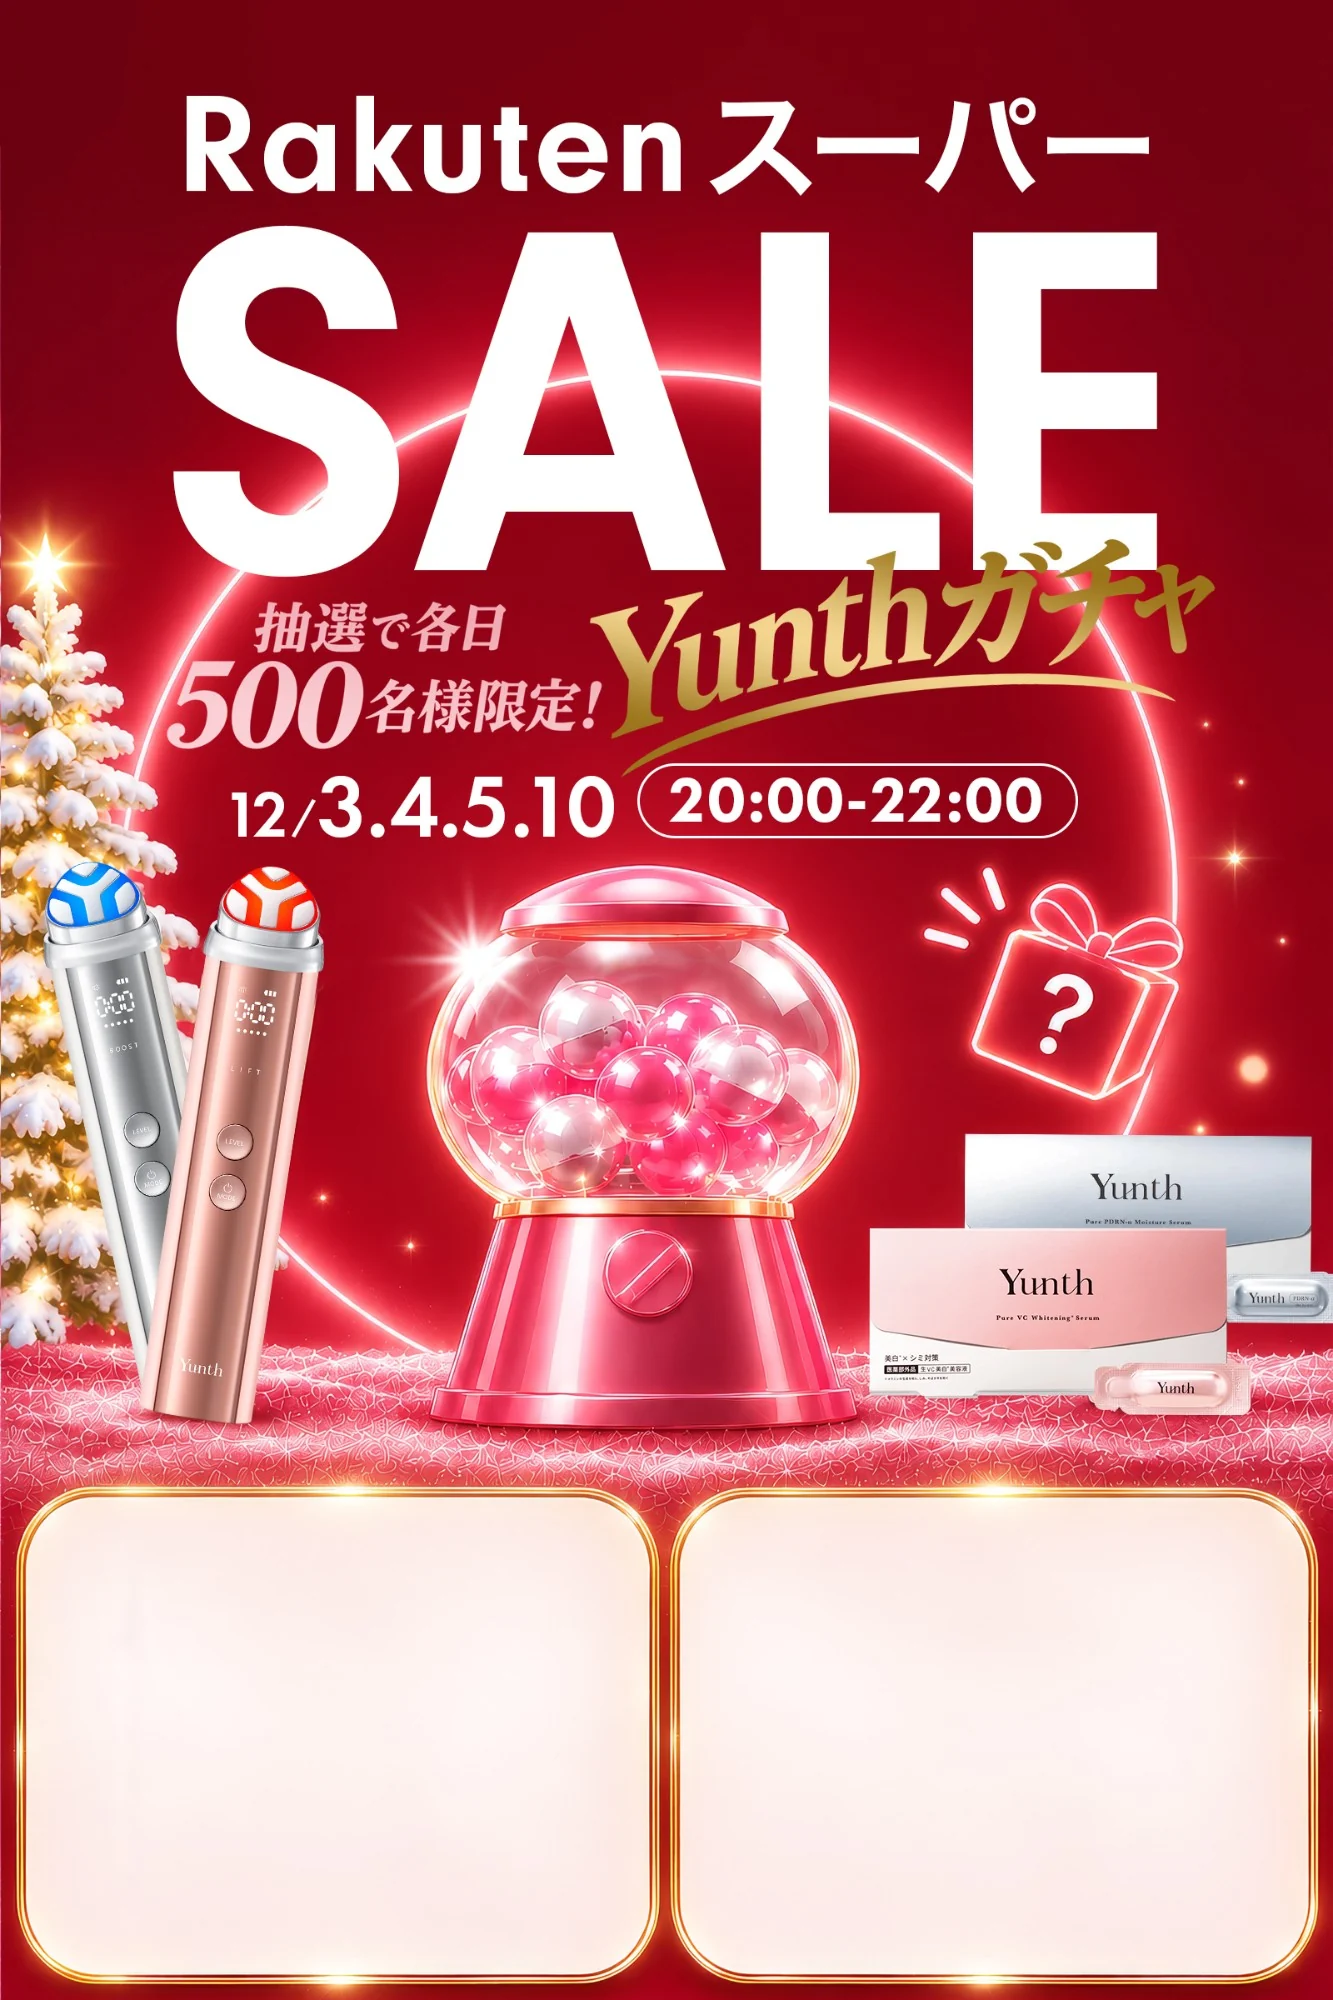
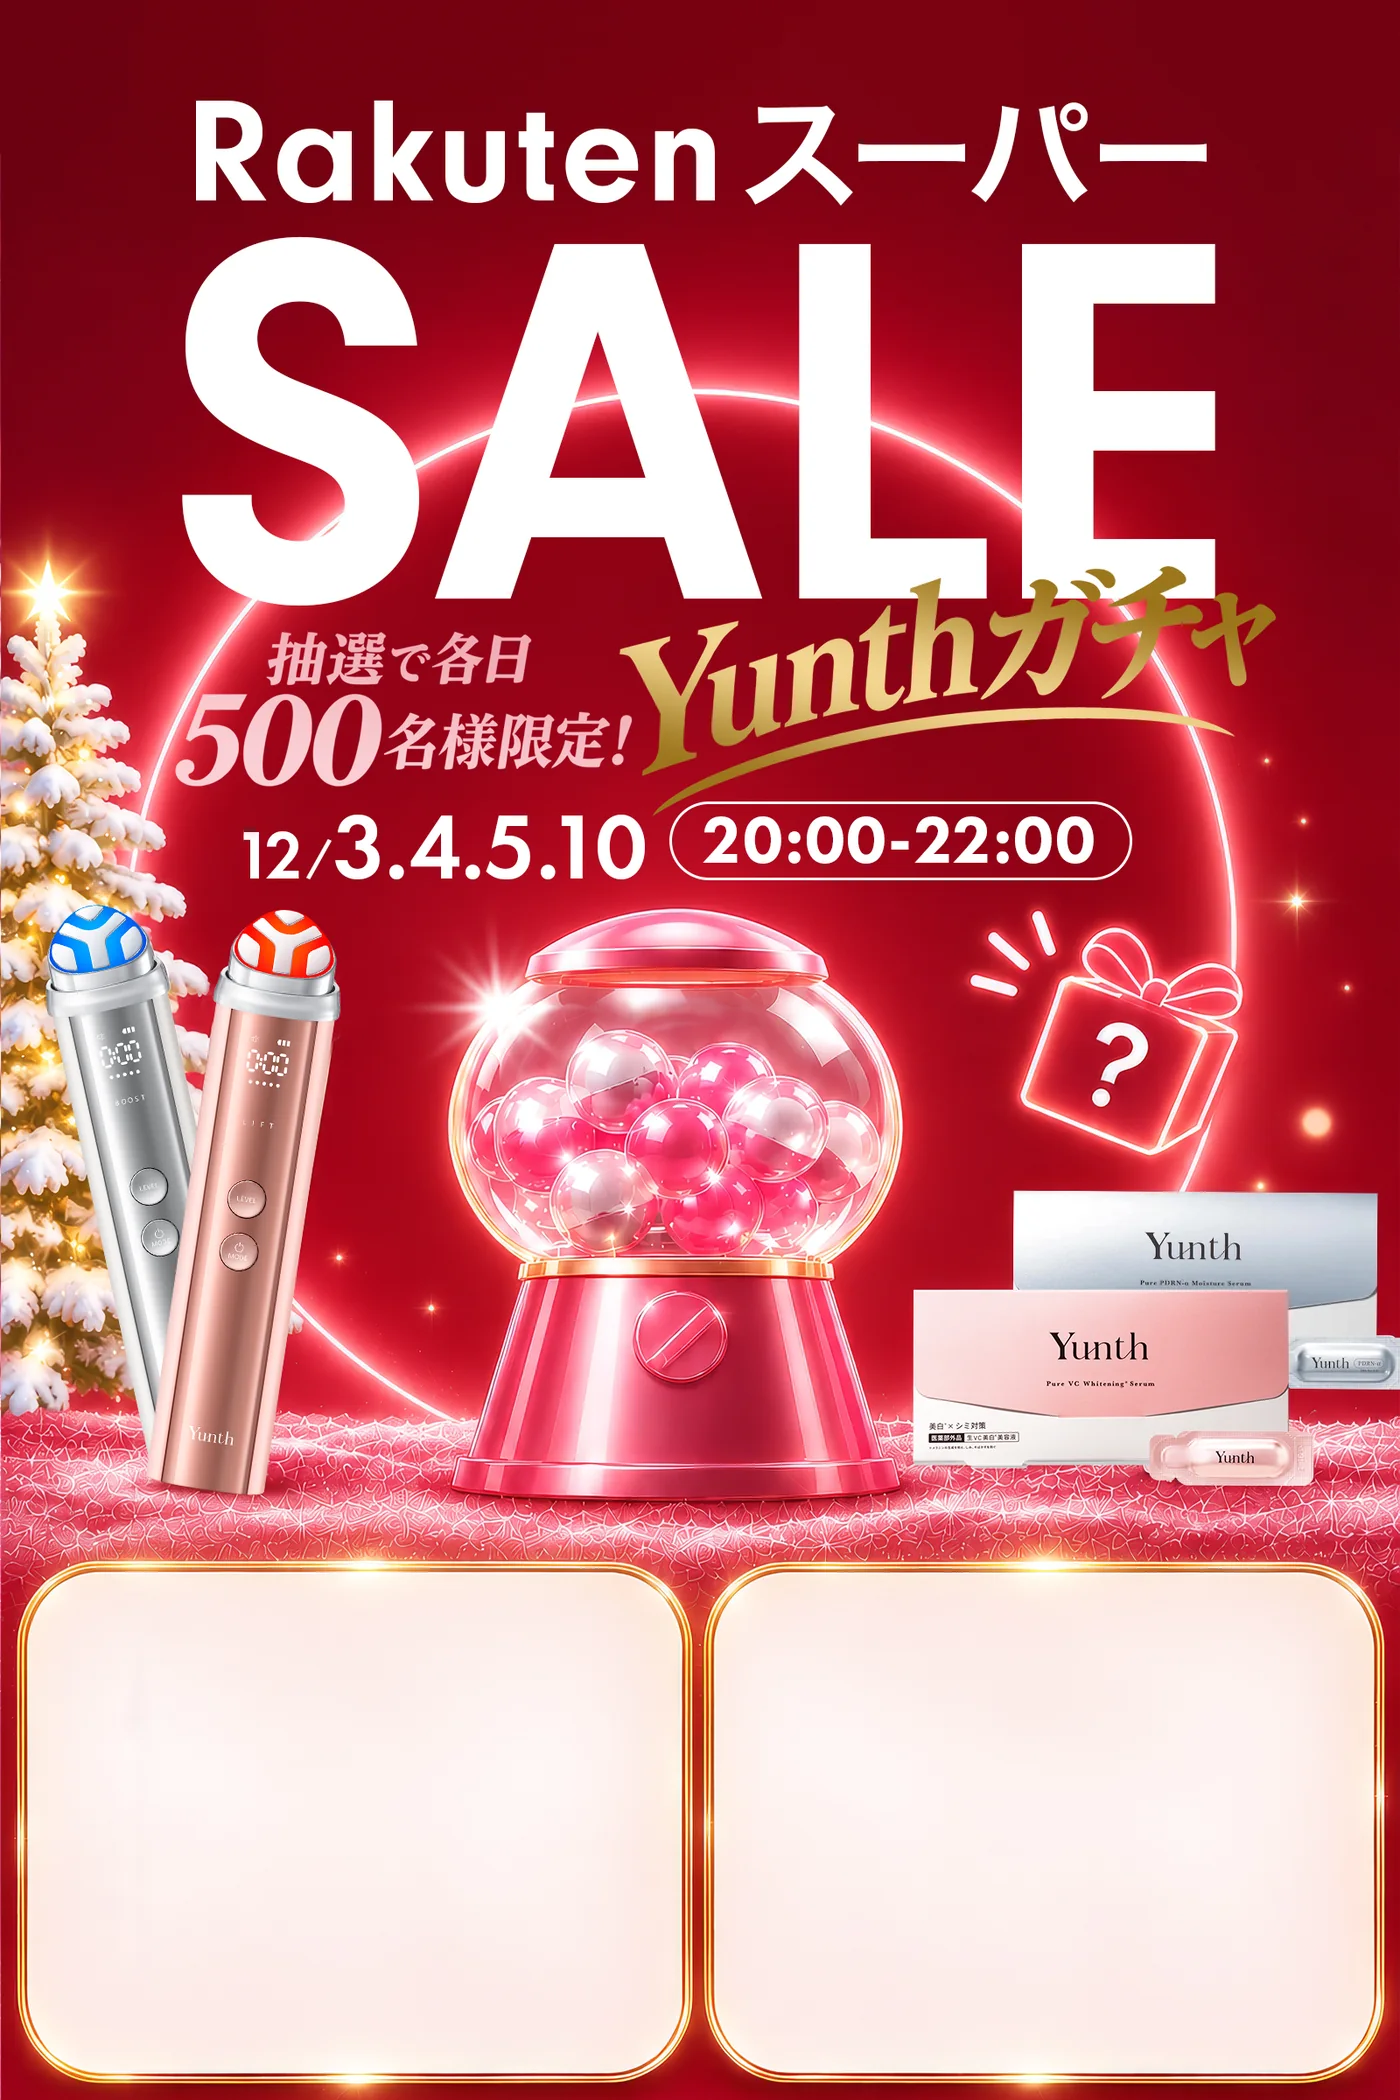
feat: 粉雪の演出を追加、FV画像を更新

diff --git a/index.html b/index.html
@@ -11,9 +11,10 @@
 <link rel="preconnect" href="https://fonts.gstatic.com" crossorigin>
 <link rel="stylesheet" href="https://fonts.googleapis.com/css2?family=Jost:wght@300;400;500;600;700&family=Noto+Sans+JP:wght@400;500;700&display=swap">
 <link rel="stylesheet" href="style.css?v=11">
-<link rel="stylesheet" href="theme.css?v=3">
+<link rel="stylesheet" href="theme.css?v=4">
 </head>
 <body>
+<canvas class="snow snow--bg" data-snow="bg" aria-hidden="true"></canvas>
 
 <svg width="0" height="0" style="position:absolute" aria-hidden="true"><defs><linearGradient id="oG"><stop offset="0" stop-color="#b98f45"/><stop offset=".5" stop-color="#f7e5b6"/><stop offset="1" stop-color="#b98f45"/></linearGradient><radialGradient id="oP" cx=".35" cy=".28" r=".85"><stop offset="0" stop-color="#ffe9ef"/><stop offset=".4" stop-color="#eda5b8"/><stop offset="1" stop-color="#c25f80"/></radialGradient><radialGradient id="oW" cx=".35" cy=".28" r=".85"><stop offset="0" stop-color="#fff"/><stop offset=".6" stop-color="#f6ebe4"/><stop offset="1" stop-color="#d9c3b6"/></radialGradient><radialGradient id="oY" cx=".35" cy=".28" r=".85"><stop offset="0" stop-color="#fffaea"/><stop offset=".45" stop-color="#e8cc8e"/><stop offset="1" stop-color="#b58a3f"/></radialGradient></defs></svg>
 <svg class="orn orn--l" viewBox="0 0 250 140" aria-hidden="true"><path d="M34 0v52" stroke="#c9a25a" stroke-width="1.5"/><rect x="28" y="50" width="12" height="9" rx="2" fill="url(#oG)"/><circle cx="34" cy="78" r="20" fill="url(#oY)"/><path d="M88 0v22" stroke="#c9a25a" stroke-width="1.5"/><rect x="82" y="20" width="12" height="9" rx="2" fill="url(#oG)"/><circle cx="88" cy="43" r="15" fill="url(#oP)"/><path d="M132 0v66" stroke="#c9a25a" stroke-width="1.5"/><rect x="126" y="64" width="12" height="9" rx="2" fill="url(#oG)"/><circle cx="132" cy="97" r="25" fill="url(#oP)"/><path d="M186 0v34" stroke="#c9a25a" stroke-width="1.5"/><rect x="180" y="32" width="12" height="9" rx="2" fill="url(#oG)"/><circle cx="186" cy="58" r="18" fill="url(#oW)"/><path d="M226 0v12" stroke="#c9a25a" stroke-width="1.5"/><rect x="220" y="10" width="12" height="9" rx="2" fill="url(#oG)"/><circle cx="226" cy="30" r="12" fill="url(#oY)"/></svg>
@@ -45,7 +46,8 @@
   <p class="fv__pre">※予告なくサービス内容を変更させていただく場合がございます。</p>
   <!-- FV: 画像の下2枠だけ文字をのせている。枠まで入った完成画像が届いたら .fv__p を2つとも消す -->
   <section class="fv" id="top">
-    <img class="fv__img" src="images/fv-pink.webp" width="1333" height="2000" alt="Rakutenスーパー SALE 抽選で各日500名様限定 12/3・4・5・10 20:00-22:00 Yunthガチャ" fetchpriority="high">
+    <img class="fv__img" src="images/fv-pink.webp?v=2" width="1400" height="2100" alt="Rakutenスーパー SALE 抽選で各日500名様限定 12/3・4・5・10 20:00-22:00 Yunthガチャ" fetchpriority="high">
+    <canvas class="snow snow--fv" data-snow="fv" aria-hidden="true"></canvas>
     <a class="fv__p fv__p--l" href="#serum">
       <strong>美容液4種</strong>
       <span class="cp"><b>20</b><span class="cp__r"><i class="u">%OFF</i><i class="k">クーポン</i></span></span>
@@ -220,5 +222,6 @@
 </nav>
 
 <script src="app.js?v=10"></script>
+<script src="snow.js?v=1"></script>
 </body>
 </html>

diff --git a/red.html b/red.html
@@ -11,9 +11,10 @@
 <link rel="preconnect" href="https://fonts.gstatic.com" crossorigin>
 <link rel="stylesheet" href="https://fonts.googleapis.com/css2?family=Jost:wght@300;400;500;600;700&family=Noto+Sans+JP:wght@400;500;700&display=swap">
 <link rel="stylesheet" href="style.css?v=11">
-<link rel="stylesheet" href="theme.css?v=3">
+<link rel="stylesheet" href="theme.css?v=4">
 </head>
 <body>
+<canvas class="snow snow--bg" data-snow="bg" aria-hidden="true"></canvas>
 
 <svg width="0" height="0" style="position:absolute" aria-hidden="true"><defs><linearGradient id="oG"><stop offset="0" stop-color="#b98f45"/><stop offset=".5" stop-color="#f7e5b6"/><stop offset="1" stop-color="#b98f45"/></linearGradient><radialGradient id="oP" cx=".35" cy=".28" r=".85"><stop offset="0" stop-color="#ffe9ef"/><stop offset=".4" stop-color="#eda5b8"/><stop offset="1" stop-color="#c25f80"/></radialGradient><radialGradient id="oW" cx=".35" cy=".28" r=".85"><stop offset="0" stop-color="#fff"/><stop offset=".6" stop-color="#f6ebe4"/><stop offset="1" stop-color="#d9c3b6"/></radialGradient><radialGradient id="oY" cx=".35" cy=".28" r=".85"><stop offset="0" stop-color="#fffaea"/><stop offset=".45" stop-color="#e8cc8e"/><stop offset="1" stop-color="#b58a3f"/></radialGradient></defs></svg>
 <svg class="orn orn--l" viewBox="0 0 250 140" aria-hidden="true"><path d="M34 0v52" stroke="#c9a25a" stroke-width="1.5"/><rect x="28" y="50" width="12" height="9" rx="2" fill="url(#oG)"/><circle cx="34" cy="78" r="20" fill="url(#oY)"/><path d="M88 0v22" stroke="#c9a25a" stroke-width="1.5"/><rect x="82" y="20" width="12" height="9" rx="2" fill="url(#oG)"/><circle cx="88" cy="43" r="15" fill="url(#oP)"/><path d="M132 0v66" stroke="#c9a25a" stroke-width="1.5"/><rect x="126" y="64" width="12" height="9" rx="2" fill="url(#oG)"/><circle cx="132" cy="97" r="25" fill="url(#oP)"/><path d="M186 0v34" stroke="#c9a25a" stroke-width="1.5"/><rect x="180" y="32" width="12" height="9" rx="2" fill="url(#oG)"/><circle cx="186" cy="58" r="18" fill="url(#oW)"/><path d="M226 0v12" stroke="#c9a25a" stroke-width="1.5"/><rect x="220" y="10" width="12" height="9" rx="2" fill="url(#oG)"/><circle cx="226" cy="30" r="12" fill="url(#oY)"/></svg>
@@ -45,7 +46,8 @@
   <p class="fv__pre">※予告なくサービス内容を変更させていただく場合がございます。</p>
   <!-- FV: 画像の下2枠だけ文字をのせている。枠まで入った完成画像が届いたら .fv__p を2つとも消す -->
   <section class="fv" id="top">
-    <img class="fv__img" src="images/fv-red.webp" width="1333" height="2000" alt="Rakutenスーパー SALE 抽選で各日500名様限定 12/3・4・5・10 20:00-22:00 Yunthガチャ" fetchpriority="high">
+    <img class="fv__img" src="images/fv-red.webp?v=2" width="1400" height="2100" alt="Rakutenスーパー SALE 抽選で各日500名様限定 12/3・4・5・10 20:00-22:00 Yunthガチャ" fetchpriority="high">
+    <canvas class="snow snow--fv" data-snow="fv" aria-hidden="true"></canvas>
     <a class="fv__p fv__p--l" href="#serum">
       <strong>美容液4種</strong>
       <span class="cp"><b>20</b><span class="cp__r"><i class="u">%OFF</i><i class="k">クーポン</i></span></span>
@@ -220,5 +222,6 @@
 </nav>
 
 <script src="app.js?v=10"></script>
+<script src="snow.js?v=1"></script>
 </body>
 </html>

diff --git a/snow.js b/snow.js
@@ -1,0 +1,80 @@
+// 粉雪: FVの絵の上(下の2枠にはかからない)と、PC両脇の背景
+(function () {
+  'use strict';
+  if (matchMedia('(prefers-reduced-motion: reduce)').matches) return;
+
+  var TWO_PI = Math.PI * 2;
+  var RAIL_MIN_WIDTH = 1220;
+
+  function random(min, max) { return min + Math.random() * (max - min); }
+
+  function createFlake(w, h, atTop) {
+    var r = random(0.7, 2.3);
+    return {
+      x: random(0, w), y: atTop ? -6 : random(0, h), r: r,
+      speed: 14 + r * 13, sway: random(6, 18), phase: random(0, TWO_PI),
+      alpha: random(0.45, 0.95)
+    };
+  }
+
+  /**
+   * @param {HTMLCanvasElement} canvas
+   * @param {{density:number, max:number, fadeFrom:number, isActive:function():boolean}} opt
+   */
+  function startSnow(canvas, opt) {
+    var ctx = canvas.getContext('2d');
+    var w = 0, h = 0, flakes = [], last = 0, isVisible = true, isRunning = false;
+
+    function resize() {
+      var dpr = Math.min(window.devicePixelRatio || 1, 2);
+      w = canvas.clientWidth;
+      h = canvas.clientHeight;
+      canvas.width = w * dpr;
+      canvas.height = h * dpr;
+      ctx.setTransform(dpr, 0, 0, dpr, 0, 0);
+      var count = Math.min(opt.max, Math.round(w * h * opt.density));
+      flakes = Array.from({ length: count }, function () { return createFlake(w, h, false); });
+    }
+
+    function draw(time) {
+      if (!isVisible || document.hidden || !opt.isActive()) { isRunning = false; return; }
+      var dt = Math.min(0.05, (time - last) / 1000 || 0);
+      last = time;
+      ctx.clearRect(0, 0, w, h);
+      ctx.fillStyle = '#fff';
+      flakes = flakes.map(function (f) {
+        var y = f.y + f.speed * dt;
+        return y > h + 4 ? createFlake(w, h, true) : Object.assign({}, f, { y: y, phase: f.phase + dt * 0.9 });
+      });
+      flakes.forEach(function (f) {
+        var fade = f.y > h * opt.fadeFrom ? Math.max(0, 1 - (f.y - h * opt.fadeFrom) / (h * (1 - opt.fadeFrom))) : 1;
+        ctx.globalAlpha = f.alpha * fade;
+        ctx.beginPath();
+        ctx.arc(f.x + Math.sin(f.phase) * f.sway, f.y, f.r, 0, TWO_PI);
+        ctx.fill();
+      });
+      requestAnimationFrame(draw);
+    }
+
+    function run() {
+      if (isRunning || !isVisible || document.hidden || !opt.isActive()) return;
+      isRunning = true;
+      last = 0;
+      requestAnimationFrame(draw);
+    }
+
+    resize();
+    run();
+    window.addEventListener('resize', function () { resize(); run(); });
+    document.addEventListener('visibilitychange', run);
+    new IntersectionObserver(function (entries) {
+      isVisible = entries[0].isIntersecting;
+      run();
+    }).observe(canvas);
+  }
+
+  var fv = document.querySelector('[data-snow="fv"]');
+  var bg = document.querySelector('[data-snow="bg"]');
+  startSnow(fv, { density: 1 / 3600, max: 120, fadeFrom: 0.9, isActive: function () { return true; } });
+  startSnow(bg, { density: 1 / 5200, max: 320, fadeFrom: 0.94, isActive: function () { return innerWidth >= RAIL_MIN_WIDTH; } });
+})();

diff --git a/theme.css b/theme.css
@@ -147,3 +147,12 @@ body::before{background:linear-gradient(180deg,var(--out),var(--bg2) 55%,var(--o
   .dayarrow{width:40px;height:40px;margin-top:-20px}.dayarrow--p{left:12px}.dayarrow--n{right:12px}
 }
 .rail__term,.rcd .gcd__l{color:#fff}
+
+/* ---- 粉雪 ---- */
+.snow{display:block;pointer-events:none}
+.snow--bg{position:fixed;inset:0;z-index:0;width:100%;height:100%;display:none}
+.snow--fv{position:absolute;left:0;top:0;z-index:1;width:100%;height:75%}
+.fv__p{z-index:2}
+.main{z-index:1}
+@media (min-width:1220px){.snow--bg{display:block}}
+@media (prefers-reduced-motion:reduce){.snow{display:none!important}}
